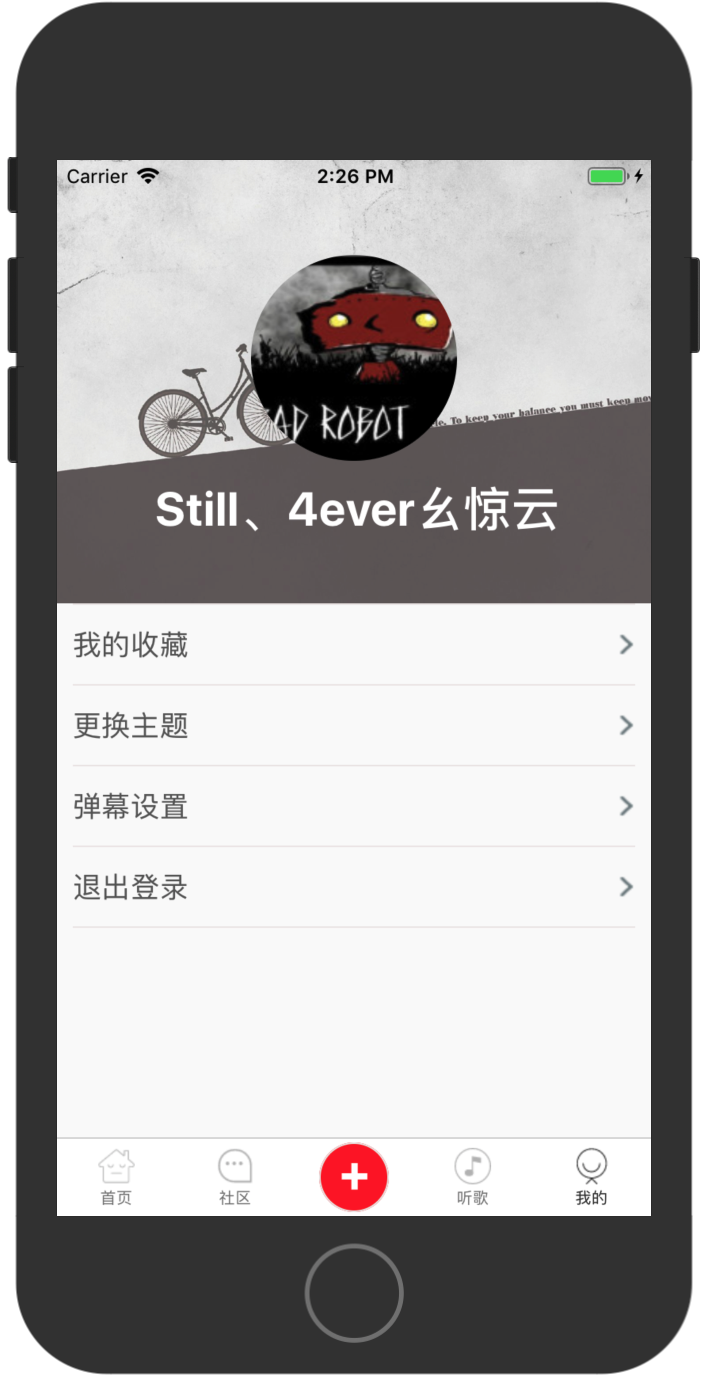
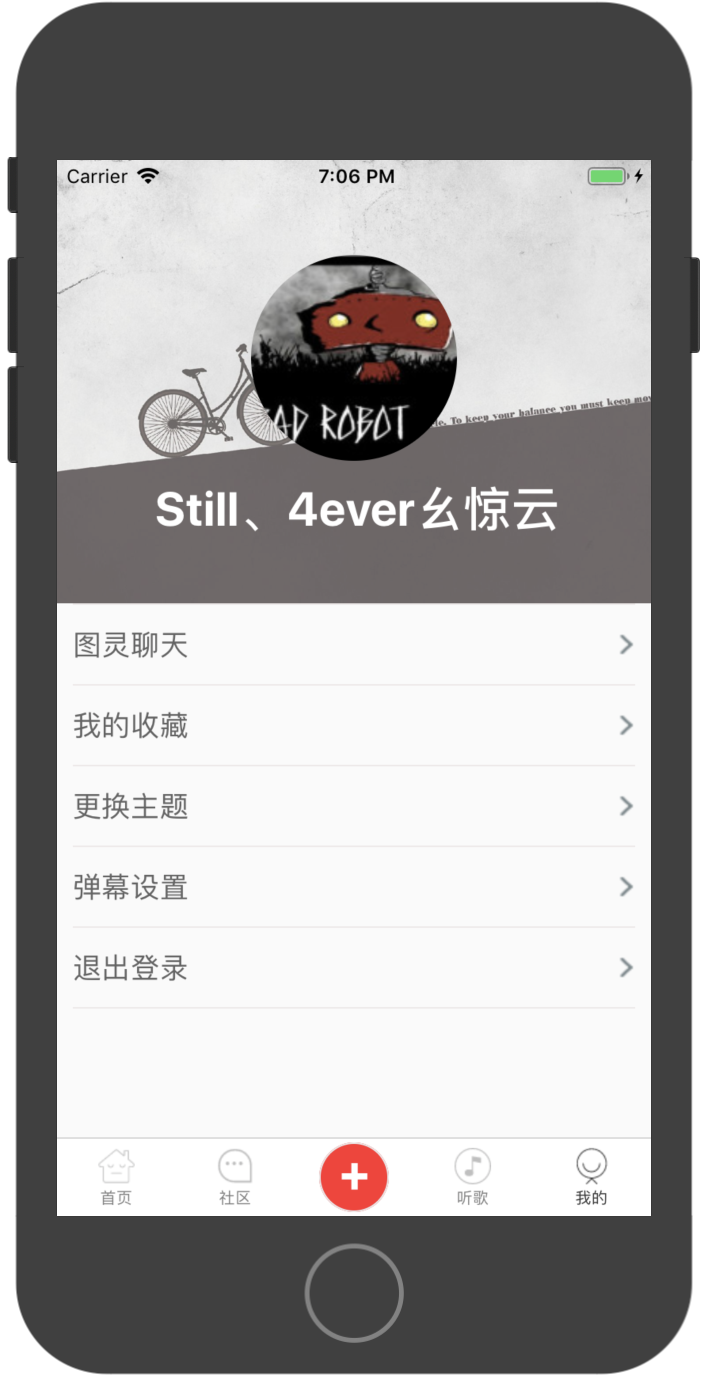
图灵
图灵

diff --git a/components/setting/SettingPage.js b/components/setting/SettingPage.js
@@ -166,8 +166,10 @@ export default class SettingPage extends Component {
                     {this._sepLine()}
                     {this._items(2)}
                     {this._sepLine()}
+                    {this._items(3)}
+                    {this._sepLine()}
                     {this.state.atavar.length>0?
-                        this._items(3):null
+                        this._items(4):null
                     }
                     {
                         this.state.atavar.length>0?

diff --git a/README.md b/README.md
@@ -9,7 +9,8 @@
         7.拍照与相册；
         8.图片预览；
         9.更换主题;
-        10.redux等其他内容；
+        10.图灵聊天室；
+        11.redux等其他内容；
 
 
 ### iOS：
@@ -31,6 +32,8 @@
 <img src="/pics/12.png" width="210" height="413"/>
 
 <img src="/pics/13.png" width="210" height="413"/>
+<img src="/pics/14.png" width="210" height="413"/>
+
 
 </h2>
 
